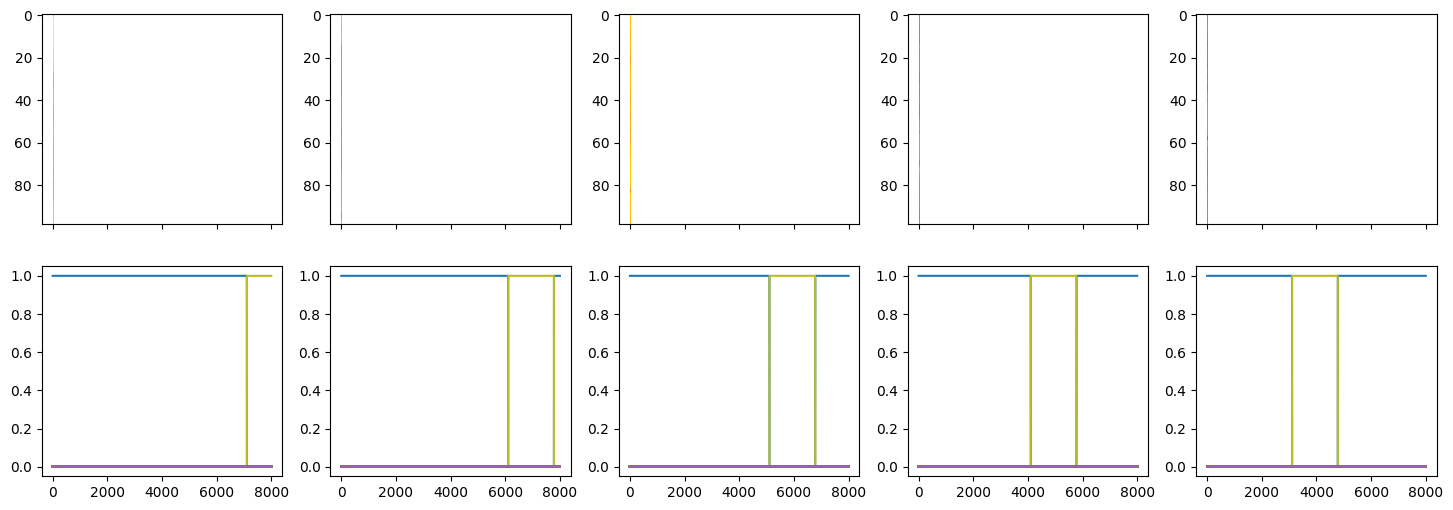
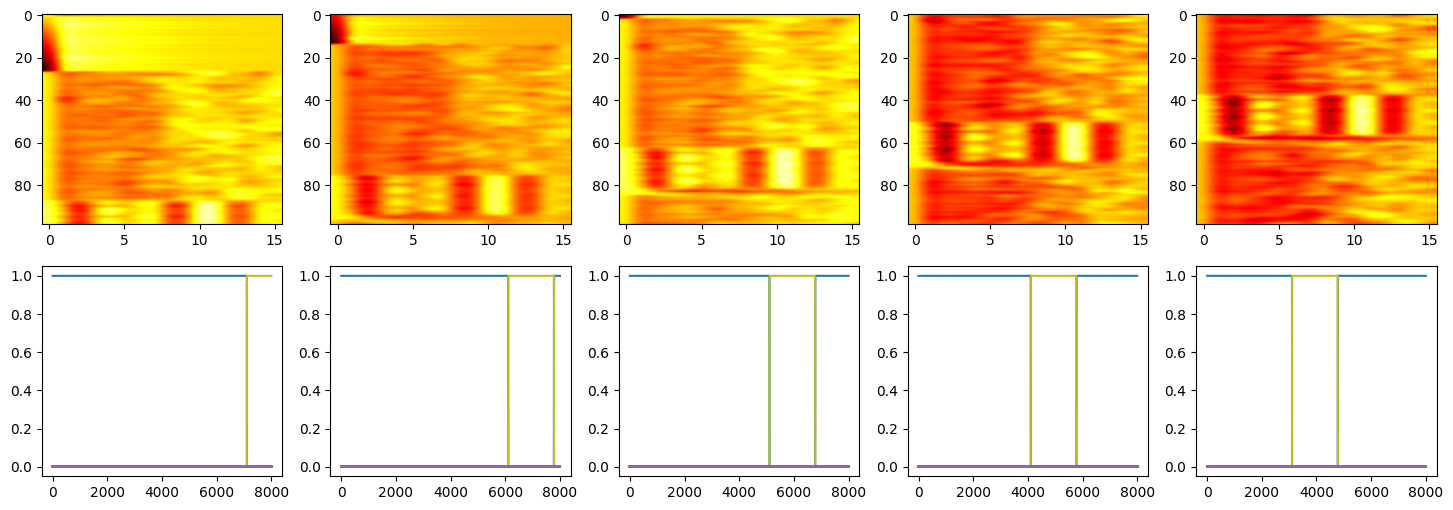
Uploaded spectrogram saving

diff --git a/src/load.py b/src/load.py
@@ -37,7 +37,7 @@ def view(specf):
     size = len(kmap)
     
     for i, (x, y) in zip(range(SAMPLES), data):
-        axes[0, i].imshow(x, cmap="hot", interpolation="bicubic", aspect="auto")
+        axes[0, i].imshow(x.T, cmap="hot", interpolation="bicubic", aspect="auto")
         y = util.onehot(y, size).T
         for j in range(len(y)):
             axes[1, i].plot(y[j])
